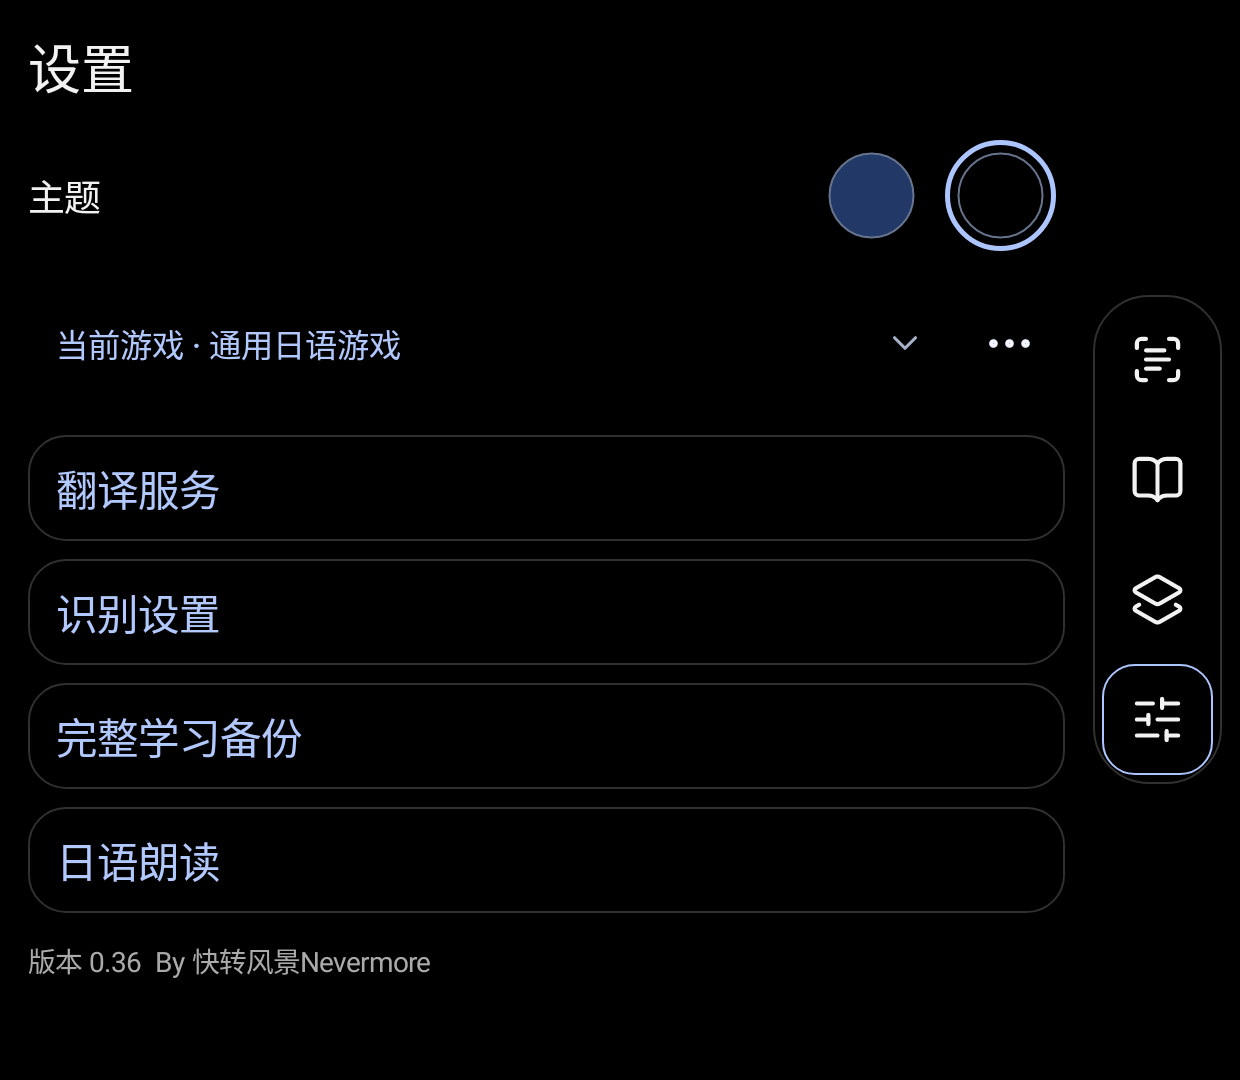
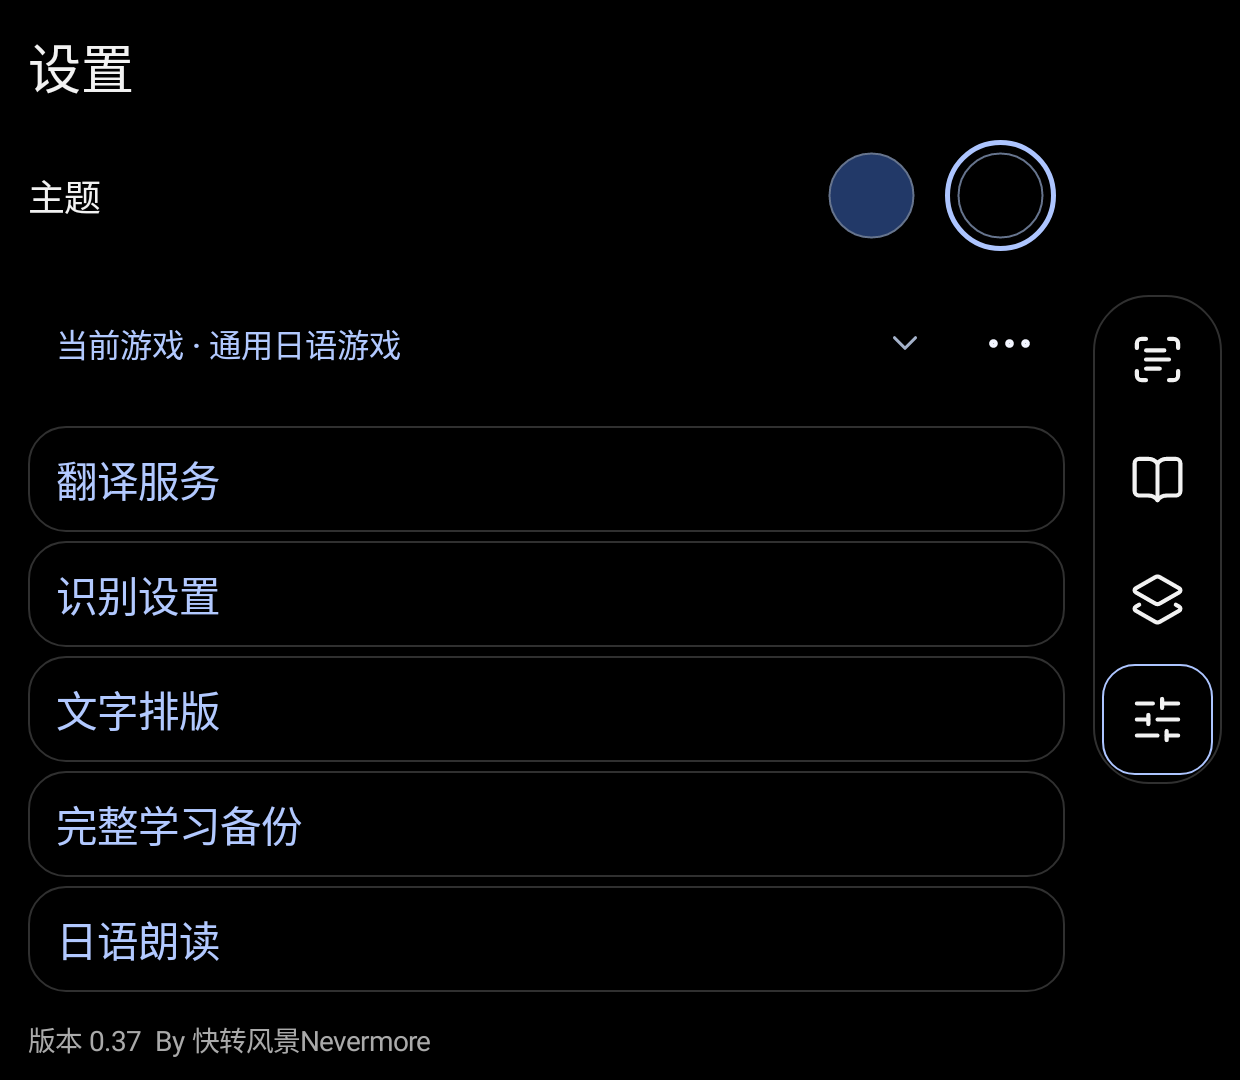
Release 0.37 with in-app voice selection and adjustable reading layout

diff --git a/docs/guide.html b/docs/guide.html
@@ -1,10 +1,11 @@
-<!doctype html><html lang="zh-CN"><meta charset="utf-8"><meta name="viewport" content="width=device-width,initial-scale=1"><title>双屏日语伴读：简单说明</title><style>body{max-width:740px;margin:32px auto;padding:20px;font:18px/1.8 system-ui}pre{white-space:pre-wrap;overflow-wrap:anywhere;font:inherit}a{color:#215eb5}</style><h1>下载与使用</h1><p><a href="https://github.com/hzz19980728-cell/ScreenStudy/releases/download/v0.36/ScreenStudy-0.36-Share.zip">点击下载完整包（两个 APK + 使用说明）</a></p><pre>双屏日语伴读 0.36｜By 快转风景Nevermore
+<!doctype html><html lang="zh-CN"><meta charset="utf-8"><meta name="viewport" content="width=device-width,initial-scale=1"><title>双屏日语伴读：简单说明</title><style>body{max-width:740px;margin:32px auto;padding:20px;font:18px/1.8 system-ui}pre{white-space:pre-wrap;overflow-wrap:anywhere;font:inherit}a{color:#215eb5}</style><h1>下载与使用</h1><p><a href="https://github.com/hzz19980728-cell/ScreenStudy/releases/download/v0.37/ScreenStudy-0.37-Share.zip">点击下载完整包（两个 APK + 使用说明）</a></p><pre>双屏日语伴读 0.37｜By 快转风景Nevermore
 
 1. 按文件名 01 → 02 的顺序安装两个 APK，提示阻止安装时点允许。
 2. 打开“双屏日语伴读”→设置→翻译服务，填自己的 DeepSeek API 密钥并保存，地址和模型用默认值。
    密钥申请：https://platform.deepseek.com/
 3. 游戏放主屏，伴读放副屏→点最上方识屏图标→开始识别→允许录屏，再用“识别范围”框住台词。
 
-日语声音已内置。首次在伴读里点“设置 → 日语朗读 → 选择语音引擎”，会直接打开系统页面，选“TTS Engine: Next-gen Kaldi”，返回后点“试听日语”。
+日语声音已内置，装好语音 APK 后，伴读会优先使用它。点“设置 → 日语朗读 → 试听日语”即可；需要更换时点“选择语音引擎”，在伴读内选择。
+字号、对齐和间距：设置 → 文字排版。文字缩小时，日文点击框和上下留白也会一起缩小。
 中文翻译首次仍需自己的密钥。
 </pre></html>

diff --git a/docs/compatibility.md b/docs/compatibility.md
@@ -1,6 +1,6 @@
 # 双屏与下屏适配说明
 
-适用版本：ScreenStudy / 双屏日语伴读 0.35 · By 快转风景Nevermore
+适用版本：ScreenStudy / 双屏日语伴读 0.37 · By 快转风景Nevermore
 
 ## 支持的双屏形态
 
@@ -10,7 +10,7 @@
 
 折叠手机的一整块大屏、只做镜像的外接屏、仅显示厂商专用面板的触摸区，不能仅因为“看起来有两块区域”就视为相同的双屏系统。有三块或更多显示屏时，目前没有手动目标屏幕选择器，自动选择结果受系统显示屏枚举影响。
 
-## 0.35 对下屏适配的处理
+## 0.35 起对下屏适配的处理
 
 - 沿用按 dp、屏幕宽度和密度排版，正文与设置页面可以滚动。
 - 修复只改变窗口高度时未触发布局重建的遗漏；调整后继续保留会话和当前台词。
@@ -20,7 +20,7 @@
 
 ## 验证范围
 
-真机依据是 AYN Thor；本次未改动掌机的个人数据或正在运行的读取会话。其他品牌型号没有对应真机，不能写成“全部已适配”。
+历史真机验证使用 AYN Thor。0.37 的新增功能在专用模拟器验证，未改动掌机的个人数据或正在运行的读取会话；反馈设备的型号与安卓版本尚待补充，因此退出问题仍需原设备复测。其他品牌型号没有对应真机，不能写成“全部已适配”。
 
 本次使用专用 Android 13 模拟器的独立副屏，逐组切换宽高、密度和字体，并核对实际生效的显示参数：
 
@@ -35,7 +35,13 @@
 
 每组检查页面切换、导航和练习开始按钮的可达性、仅高度变化后的重建与会话保留、系统边缘与键盘的安全间距，并检查罗马音键盘、答案滚动和选择题布局。这些是**界面尺寸测试**，不能代替其他品牌的副屏权限、录屏行为和真机游戏兼容验证。
 
-公开发行 APK 上的检查结果：完整交互 1,233 项、学习功能 559 项、界面导航 437 项、六组副屏适配合计 306 项均通过。另通过构建时的文字稳定、画面缓存、OCR 版面和罗马音检查。核对了旧版签名一致、发行包关闭调试及安装包校验值；未使用作者的真实翻译密钥进行联网翻译验证。
+0.37 公开发行 APK 上的检查结果：开启两端对齐后的完整交互 1,233 项、界面导航 437 项、文字排版 513 项、应用内语音选择与真实离线日语播放 20 项、六组副屏适配合计 306 项均通过。另在较矮副屏（960 × 640、320 dpi、系统字体 1.3 倍）通过 514 项排版检查，覆盖控件滚动可达、换行与两端对齐、字号上下限、点击框和内边距联动，并用实际点词核对命中。另通过构建时的文字稳定、画面缓存、OCR 版面和罗马音检查。核对了旧版签名一致、发行包关闭调试及安装包校验值；未使用作者的真实翻译密钥进行联网翻译验证。
+
+## 0.37 的语音与文字设置
+
+“设置 → 日语朗读 → 选择语音引擎”在伴读内显示列表，不再跳到系统语音设置。安装随包语音后自动优先使用它；也可选择其他已安装引擎或“跟随系统”，不会更改系统的首选引擎。
+
+“设置 → 文字排版”分别调日文和译文字号（12–34），提供四种对齐方式、字距、日文词距和行距。日文字号缩小时，最小点击框、内边距、行高同步缩小；字号增大时同步扩框。日文保留分词点击与长按，自动换行的两端对齐不拆散连接组，段落末行保持自然左对齐。
 
 ## 仍需注意的设备差异
 

diff --git a/README.md b/README.md
@@ -1,15 +1,17 @@
-# ScreenStudy · 双屏日语伴读 0.36
+# ScreenStudy · 双屏日语伴读 0.37
 
-**[点击下载：两个安装包 + 简单说明](https://github.com/hzz19980728-cell/ScreenStudy/releases/download/v0.36/ScreenStudy-0.36-Share.zip)**
+**[点击下载：两个安装包 + 简单说明](https://github.com/hzz19980728-cell/ScreenStudy/releases/download/v0.37/ScreenStudy-0.37-Share.zip)**
 
 下载 ZIP，解压后只有三个文件：
 
 - `使用说明.txt`
 - `01_离线日语语音_1.13.8.apk`
-- `02_双屏日语伴读_0.36.apk`
+- `02_双屏日语伴读_0.37.apk`
 
 先装离线日语语音，再装伴读。打开伴读，在“设置 → 翻译服务”填自己的 DeepSeek API 密钥并保存；主屏开游戏，副屏点“开始识别”，允许录屏并框选台词即可。
 
-**日语声音已内置，不用再找语音软件或下载声音。中文翻译首次仍需填自己的密钥。** 在伴读内点“设置 → 日语朗读 → 选择语音引擎”，直接跳到系统页面，选 `TTS Engine: Next-gen Kaldi`，返回后点“试听日语”。
+**日语声音已内置，不用再找语音软件或下载声音。中文翻译首次仍需填自己的密钥。** 装好语音 APK 后，伴读会优先使用随包日语语音，点“设置 → 日语朗读 → 试听日语”即可；“选择语音引擎”在伴读内完成，不用去系统设置。
+
+“设置 → 文字排版”可分别调日文和译文字号（12–34），选择左对齐、居中、右对齐或两端对齐，调整字距、日文词距和行距。字号缩小时，日文点击框、内边距和行高同步缩小；两端对齐保留段落末行自然左对齐。
 
 By 快转风景Nevermore · [密钥申请](https://platform.deepseek.com/) · [机型适配说明](docs/compatibility.md) · [语音来源与许可](docs/offline-speech.md)

diff --git a/docs/installation.md b/docs/installation.md
@@ -1,6 +1,6 @@
 # 下载与安装
 
-[点击下载完整包](https://github.com/hzz19980728-cell/ScreenStudy/releases/download/v0.36/ScreenStudy-0.36-Share.zip)，解压后先装 `01_离线日语语音_1.13.8.apk`，再装 `02_双屏日语伴读_0.36.apk`。
+[点击下载完整包](https://github.com/hzz19980728-cell/ScreenStudy/releases/download/v0.37/ScreenStudy-0.37-Share.zip)，解压后先装 `01_离线日语语音_1.13.8.apk`，再装 `02_双屏日语伴读_0.37.apk`。
 
 安装时按系统提示允许当前文件管理器安装应用。桌面名称是“双屏日语伴读”。老用户直接覆盖安装伴读，保留学习数据。
 
@@ -8,4 +8,4 @@
 
 游戏放主屏，伴读放副屏 → 点最上方识屏图标 → 开始识别 → 允许录屏 → 识别范围框住台词。
 
-日语声音已包含在另一个 APK 内。在伴读内点“设置 → 日语朗读 → 选择语音引擎”，直接打开系统页面，选 `TTS Engine: Next-gen Kaldi`，返回后点“试听日语”。
+日语声音已包含在另一个 APK 内，安装后伴读会优先使用它。点“设置 → 日语朗读 → 试听日语”；需要切换时在伴读内点“选择语音引擎”。

diff --git a/docs/faq.md b/docs/faq.md
@@ -1,9 +1,10 @@
 # 常见问题
 
-**没有声音？** 在伴读点“设置 → 日语朗读 → 选择语音引擎”，直接跳到系统页面，选 `TTS Engine: Next-gen Kaldi` 后返回点“试听日语”。声音已包含，无需另下。
+**没有声音？** 先安装分享包中的 `01_离线日语语音_1.13.8.apk`，再在伴读点“设置 → 日语朗读 → 试听日语”。需要切换时点“选择语音引擎”，直接在伴读里选 `TTS Engine: Next-gen Kaldi`。声音已包含，无需另下。
 
 **没有中文？** 进入伴读“设置 → 翻译服务”填自己的 DeepSeek API 密钥并保存，测试连接。语音软件负责朗读，不提供翻译密钥。
 
 **读不到日文？** 把游戏放系统主屏，开始识别并允许录屏，再框选台词区域。
 
 **安装冲突？** 先备份学习资料，保留旧应用，确认下载的是本系列更新；不要直接卸载丢失数据。
+**旧版点选择语音引擎退出？** 覆盖安装 0.37 或更高版本，选择已改为伴读内列表。若仍退出，请反馈机型、安卓版本和出现问题的步骤。

diff --git a/docs/changelog.md b/docs/changelog.md
@@ -1,6 +1,16 @@
 # 更新记录
 
-适用版本：ScreenStudy / 双屏日语伴读 0.36 · By 快转风景Nevermore
+适用版本：ScreenStudy / 双屏日语伴读 0.37 · By 快转风景Nevermore
+
+## 0.37 · 2026-11-02
+
+- 语音引擎改为伴读内选择，避开系统设置页面的兼容问题；安装随包语音后自动优先使用，也可自行切换或跟随系统。
+- 日文和译文字号分别可调到 12–34；小字号可正常导出、读取完整学习备份。
+- 日文点击框、内边距和实际行高随字号缩放，小字号不再保留固定的大框和上下留白。
+- 新增“设置 → 文字排版”，支持左对齐、居中、右对齐、两端对齐、字距、日文词距和行距。
+- 补充无空格中文译文的两端对齐，保留译文原文和段末行自然左对齐。
+- 两端对齐保留日语连接组与点词操作，段落末行自然左对齐；设置选择保存在设备上。
+- 支持覆盖更新，分享包仍只有一份短说明和两个 APK。
 
 ## 0.36 · 2026-11-01
 

diff --git a/docs/usage.md b/docs/usage.md
@@ -5,3 +5,5 @@
 点日文单词查释义，点“译文”看整句中文。右侧另外三个图标依次是单词本、练习、设置。
 
 中文翻译首次要填自己的 DeepSeek API 密钥；日语声音已随离线语音 APK 提供。默认打开词卡或译文时会固定台词，关闭后跟上最新台词；想持续更新可打开“实时跟随翻译”。
+
+设置 → 文字排版：日文、译文分别调字号（12–34），可选左对齐、居中、右对齐、两端对齐，并调整字距、日文词距和行距。日文点击框、内边距和行高随字号缩放。

diff --git a/docs/requirements.md b/docs/requirements.md
@@ -1,6 +1,6 @@
 # 包里已经带好的软件
 
-完整 ZIP 内有两个可直接安装的 APK：双屏日语伴读 0.36、离线日语语音 1.13.8（sherpa-onnx / Next-gen Kaldi，与作者掌机使用的版本一致）。
+完整 ZIP 内有两个可直接安装的 APK：双屏日语伴读 0.37、离线日语语音 1.13.8（sherpa-onnx / Next-gen Kaldi，与作者掌机使用的版本一致）。
 
 离线语音 APK 内含日语模型，不需要 Google Play、谷歌语音或额外语音下载。它负责朗读，中文翻译仍需使用者首次填写自己的 API 密钥。
 

diff --git a/docs/privacy.md b/docs/privacy.md
@@ -1,6 +1,6 @@
 # 数据与隐私说明
 
-适用版本：ScreenStudy / 双屏日语伴读 0.36 · By 快转风景Nevermore
+适用版本：ScreenStudy / 双屏日语伴读 0.37 · By 快转风景Nevermore
 
 ## 屏幕和翻译
 
